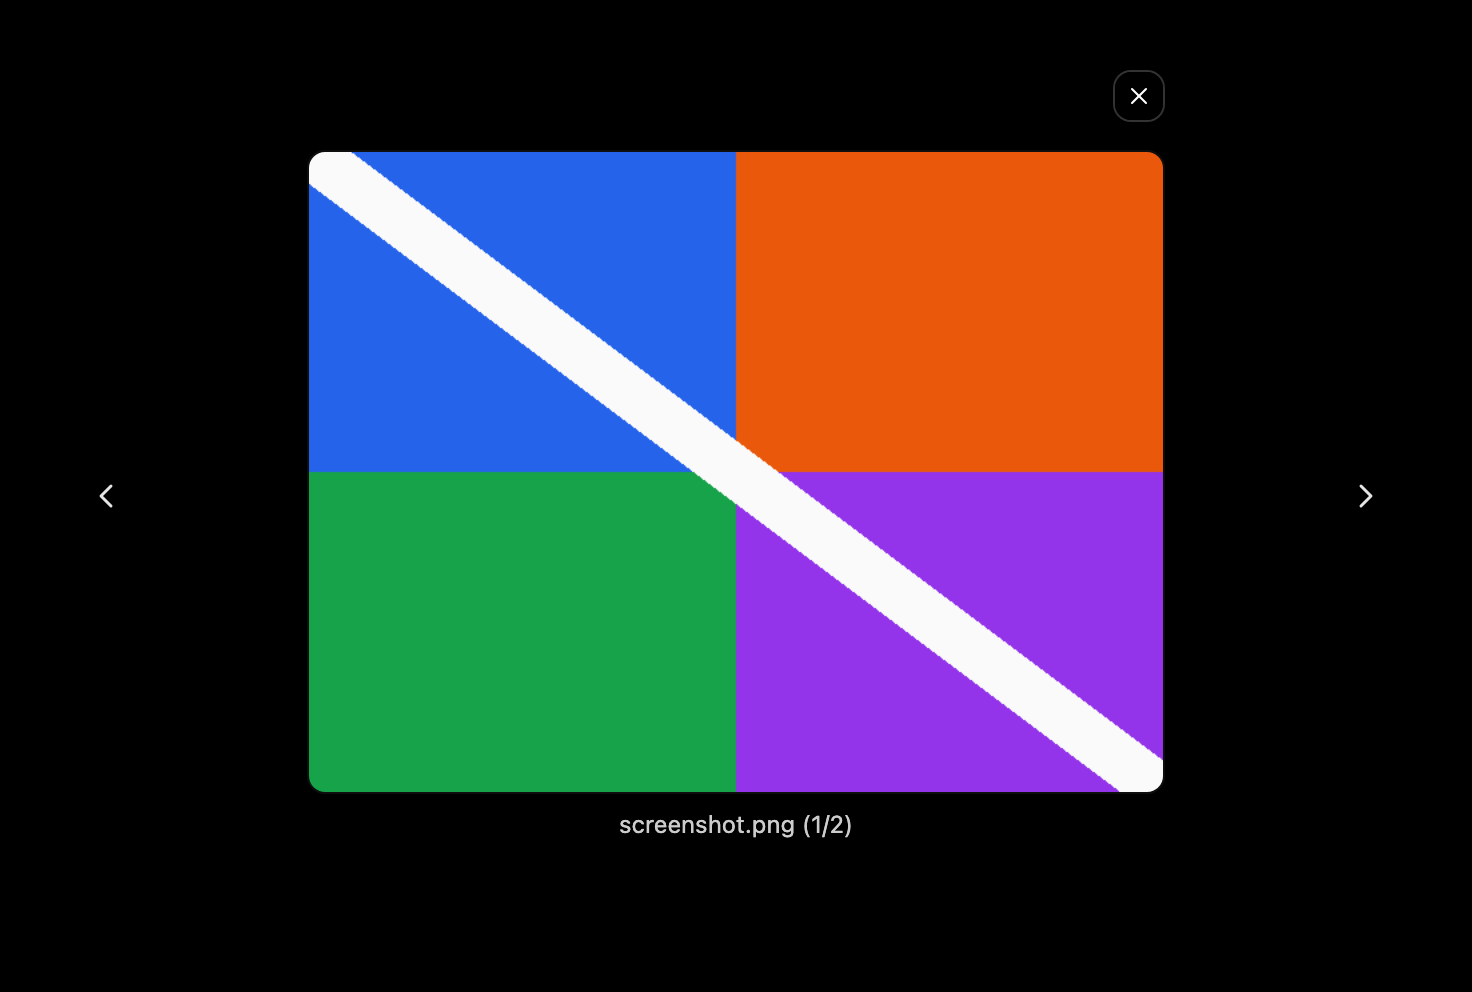
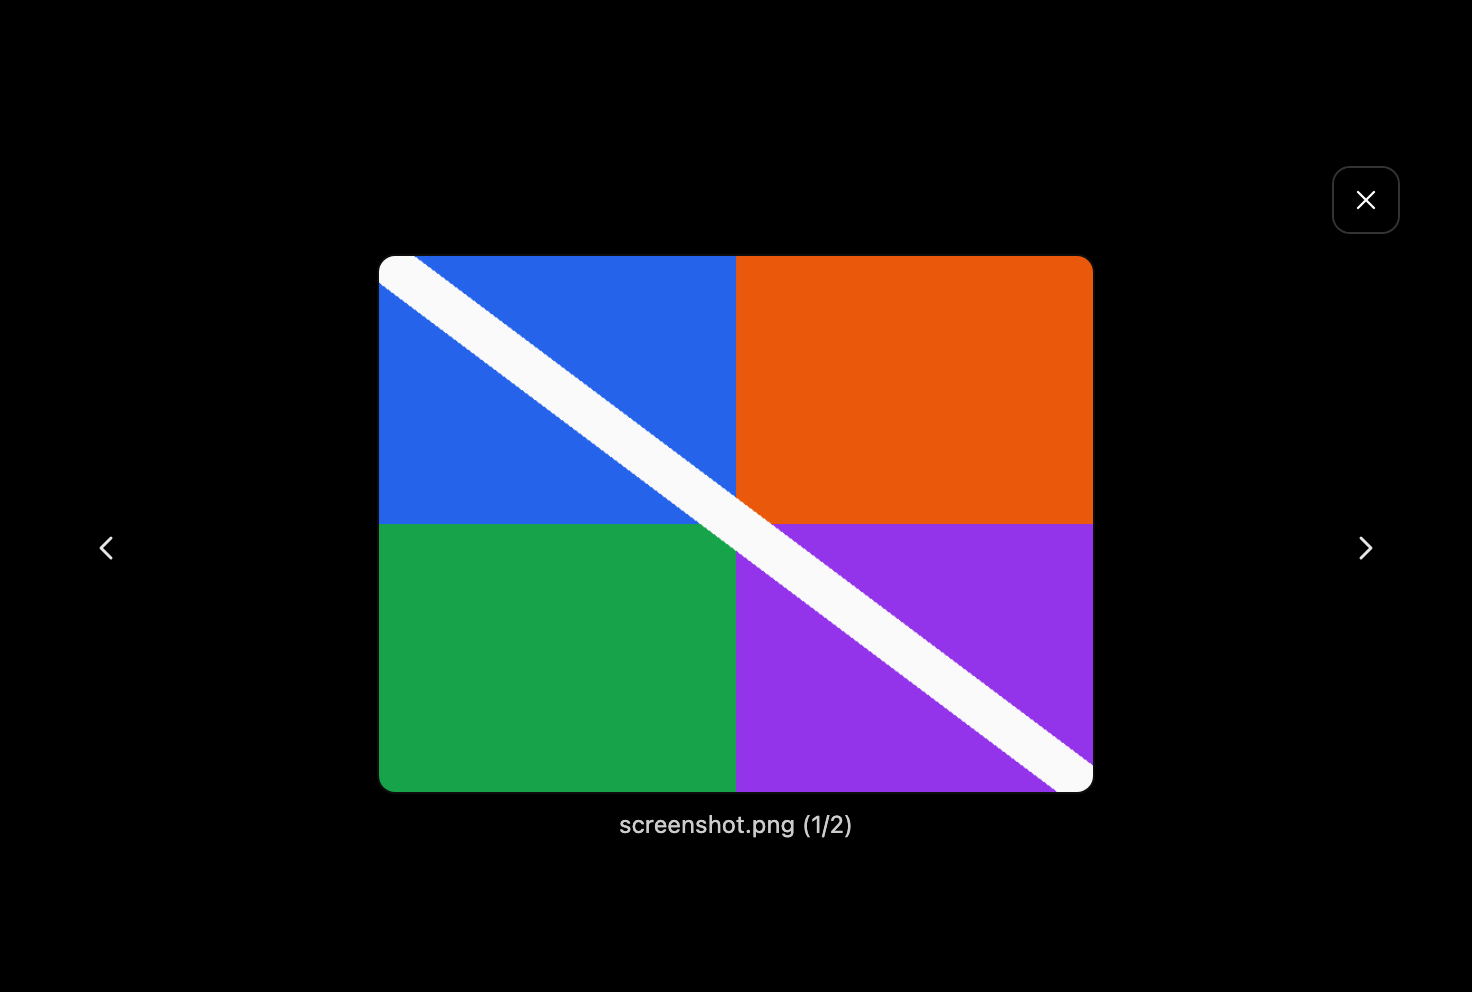
fix(thread): image preview follows T3 5258's popup rows, reference recaptured
The media popup leaves the 52pt titlebar clear: --media-height is
min((100vh - 52) * 0.86, 100vh - 52 - 160) and the image and caption
center in the popup's rows under pt-[min(52px + 1.5rem, 50dvh)] pb-6
(ExpandedImageDialog.tsx:183, dialog.tsx:163-168). The chevrons sit at
the popup's middle. preview.rest is recaptured from 5258's markup.

A switched thread opening at its end already holds (#41843); a test
now covers a taller footer arriving after the rows.

Tested: scripts/test --filter ComposerAttachmentsFidelityTests (preview
1.57% light, 0.38% dark) and --filter ThreadTimelineTests, all pass.

Changed region(s): [[0.1875, 0.1562, 0.8125, 0.8125], [0.9062, 0.1875, 0.9375, 0.2188], [0.75, 0.0938, 0.7812, 0.125]]

diff --git a/Packages/CandyKit/Sources/Features/Composer/ExpandedImagePreviewView.swift b/Packages/CandyKit/Sources/Features/Composer/ExpandedImagePreviewView.swift
@@ -234,10 +234,23 @@ public final class ExpandedImagePreviewView: DSView {
         frameView.layer?.borderColor = Themed.color(\.border, 0.7).cgColor(in: self)
     }
 
-    /// `--media-width: calc(92vw - 96px)` from `sm`, `--media-height: min(86vh, 100vh - 160px)`.
+    /// The 52pt macOS titlebar the media dialog leaves clear (windowControlsOverlay.ts:11).
+    private static let titlebar: CGFloat = 52
+
+    /// `--media-width: calc(92vw - 96px)` from `sm`, `--media-height: min((100vh - titlebar) * 0.86,
+    /// 100vh - titlebar - 160px)` (ExpandedImageDialog.tsx:183).
     private var mediaBox: CGSize {
-        let w = bounds.width, h = bounds.height
+        let w = bounds.width, h = bounds.height - Self.titlebar
         return CGSize(width: max(0, w * 0.92 - (w >= 640 ? 96 : 0)), height: max(0, min(h * 0.86, h - 160)))
+    }
+
+    /// The popup's rows: the viewport pads `pt-[min(titlebar + 1.5rem, 50dvh)] pb-6` (dialog.tsx:163-168) and
+    /// centers the `h-full max-h-[92vh]` popup in what is left.
+    private var popupRows: (top: CGFloat, height: CGFloat) {
+        let h = bounds.height
+        let top = min(Self.titlebar + 24, h / 2), row = max(0, h - top - 24)
+        let height = min(row, h * 0.92)
+        return ((top + (row - height) / 2).rounded(), height)
     }
 
     /// The image at zoom 1: its pixel size scaled down to fit the media box. The decode is capped at the box
@@ -261,9 +274,10 @@ public final class ExpandedImagePreviewView: DSView {
         // The data pane is `h-[min(var(--media-height),40rem)] w-[min(var(--media-width),42rem)]`.
         let size = showingDetails ? CGSize(width: min(box.width, 672), height: min(box.height, 640))
             : CGSize(width: min(fitted.width * zoom, box.width), height: min(fitted.height * zoom, box.height))
-        // The caption row is `items-center`: the 20pt micro button sets its height.
-        let block = size.height + 8 + captionHeight
-        return CGRect(x: (bounds.width - size.width) / 2, y: (bounds.height - block) / 2, width: size.width, height: size.height)
+        // The caption row is `items-center`: the 20pt micro button sets its height. The popup is
+        // `flex-col items-center justify-center`, so the pair centers in the popup's rows.
+        let block = size.height + 8 + captionHeight, rows = popupRows
+        return CGRect(x: (bounds.width - size.width) / 2, y: rows.top + (rows.height - block) / 2, width: size.width, height: size.height)
     }
 
     /// Zooms keeping the image point under `point` (or the frame's center) where it is (`changeZoom`).
@@ -284,7 +298,7 @@ public final class ExpandedImagePreviewView: DSView {
 
     public override func layout() {
         super.layout()
-        let w = bounds.width, h = bounds.height
+        let w = bounds.width
         let popupWidth = (w * 0.92).rounded()
         let inner = viewport(zoom: zoom), scaled = zoomedSize
         scroll.x = min(max(0, scaled.width - inner.width), max(0, scroll.x))
@@ -305,14 +319,11 @@ public final class ExpandedImagePreviewView: DSView {
             caption.frame = NSRect(x: inner.minX, y: row, width: inner.width, height: 16)
         }
         let popupX = ((w - popupWidth) / 2).rounded()
-        // The viewport pads `pt-[min(52px + 1.5rem, 50dvh)] pb-6` (dialog.tsx:163-168, the macOS titlebar is 52,
-        // windowControlsOverlay.ts:11) and centers the `h-full max-h-[92vh]` popup in that row. The × sits at its
-        // `end-0 top-0` (ExpandedImageDialog.tsx:198).
-        let top = min(76, h / 2), rowHeight = max(0, h - top - 24)
-        let popupTop = (top + (rowHeight - min(rowHeight, h * 0.92)) / 2).rounded()
-        close.frame = NSRect(x: popupX + popupWidth - 32, y: popupTop, width: 32, height: 32)
-        previous.frame = NSRect(x: popupX, y: (h / 2 - 16).rounded(), width: 32, height: 32)
-        next.frame = NSRect(x: popupX + popupWidth - 32, y: (h / 2 - 16).rounded(), width: 32, height: 32)
+        // The × sits at the popup's `end-0 top-0` (ExpandedImageDialog.tsx:198), the chevrons at its middle.
+        let rows = popupRows, middle = (rows.top + rows.height / 2 - 16).rounded()
+        close.frame = NSRect(x: popupX + popupWidth - 32, y: rows.top, width: 32, height: 32)
+        previous.frame = NSRect(x: popupX, y: middle, width: 32, height: 32)
+        next.frame = NSRect(x: popupX + popupWidth - 32, y: middle, width: 32, height: 32)
     }
 
     /// Decode only the pixels this zoom can show, in 128px steps while a wheel gesture grows.

diff --git a/Packages/CandyKit/Tests/FeaturesTests/ThreadTimelineTests.swift b/Packages/CandyKit/Tests/FeaturesTests/ThreadTimelineTests.swift
@@ -98,6 +98,21 @@ struct ThreadTimelineTests {
         #expect(!t.isPillVisible)
     }
 
+    /// T3 #41843 (MessagesTimeline.tsx, the restore owns the scroll until it lands): a thread opened while the
+    /// previous one was read mid-way lands at its end, and a taller footer that arrives after the rows (a working
+    /// parent's subagents) keeps it there instead of landing short.
+    @Test func aSwitchedThreadOpensAtItsEndWithoutLandingShort() throws {
+        let items = try Self.manyItems()
+        let t = Self.timeline(Array(items.prefix(40)))
+        t.scroll(toFraction: 0.2)
+        #expect(!t.followsEnd)
+        t.setItems(Array(items.suffix(60)), change: .thread)
+        #expect(abs(Self.viewport(t).maxY - t.documentHeight) < 1)
+        t.setFooter(NSView(), height: 300)
+        #expect(t.followsEnd)
+        #expect(abs(Self.viewport(t).maxY - t.documentHeight) < 1)
+    }
+
     /// A terminal drawer opening with a thread switch shrinks the viewport; the newest row stays in view.
     @Test func staysAtTheEndWhenTheViewportShrinks() throws {
         let items = try Self.manyItems()

diff --git a/scripts/gen-composer-attachments-spec.py b/scripts/gen-composer-attachments-spec.py
@@ -58,19 +58,22 @@ def tile(name, progress=None, failed=False):
             f'<span class="absolute right-1 top-1 flex">{btn("media-close", "icon-xs", lucide("x"))}</span></div>')
 shelf = f'<div class="flex max-w-full gap-2 flex-wrap">{tile("a.png")}{tile("b.png", progress="42%")}{tile("c.png", failed=True)}</div>'
 
-# MARK: preview, for a 720x480 window: --media-width 92vw - 96px, --media-height min(86vh, 100vh - 160px)
+# MARK: preview, for a 720x480 window at T3 5258 (ExpandedImageDialog.tsx:178-300, dialog.tsx:96-175).
+# The macOS titlebar is 52px (windowControlsOverlay.ts:11): the viewport pads pt-[min(52px+1.5rem,50dvh)] pb-6,
+# --media-width is 92vw - 96px and --media-height min((100vh - 52px) * 0.86, 100vh - 52px - 160px).
 W, H = 720, 480
-media_w, media_h = W * 0.92 - 96, min(H * 0.86, H - 160)
+TB = 52
+media_w, media_h = W * 0.92 - 96, min((H - TB) * 0.86, H - TB - 160)
 fit = min(1, media_w / 640, media_h / 480)
 iw, ih = 640 * fit, 480 * fit
-nav = lambda side, icon: btn("media-navigation", "icon", lucide(icon, "size-5"), f"{side}-0 sm:top-1/2 sm:bottom-auto sm:-translate-y-1/2")
+nav = lambda side, icon: btn("media-navigation", "icon", lucide(icon, "size-5"), f"{side}-0 top-auto bottom-0 translate-y-0 sm:top-1/2 sm:bottom-auto sm:-translate-y-1/2")
 preview = (f'<div style="position:relative;width:{W}px;height:{H}px;overflow:hidden">'
            '<div class="absolute inset-0 bg-black/75 backdrop-blur-none"></div>'
-           '<div class="absolute inset-0 grid grid-rows-1 place-items-center px-4 py-6">'
-           f'<div class="relative flex min-h-0 min-w-0 flex-col items-center overflow-visible" style="width:{W * 0.92}px;--media-width:{media_w}px;--media-height:{media_h}px">'
+           f'<div class="absolute inset-0 grid grid-rows-1 place-items-center justify-items-center px-4 pb-6" style="padding-top:{min(TB + 24, H / 2)}px">'
+           f'<div class="relative flex min-h-0 min-w-0 flex-col h-full items-center justify-center overflow-visible" style="width:{W * 0.92}px;max-height:{H * 0.92}px;--media-width:{media_w}px;--media-height:{media_h}px">'
+           + btn("media-close", "icon", lucide("x"), "absolute end-0 top-0 z-20")
            + nav("left", "chevron-left") +
-           '<div class="relative isolate z-10 max-w-[var(--media-width)]">'
-           + btn("media-close", "icon-xs", lucide("x"), "absolute right-0 -top-10 z-20") +
+           '<div class="relative isolate z-10 flex max-h-full max-w-[var(--media-width)] flex-col items-center">'
            f'<div class="min-w-0"><div class="max-w-[var(--media-width)] overflow-auto overscroll-contain rounded-lg bg-background shadow-2xl ring-1 ring-border/70 outline-none" style="width:{iw}px;height:{ih}px">'
            f'<img src="{IMG}" alt="" class="block max-w-none select-none" style="width:{iw}px;height:{ih}px"></div></div>'
            '<div class="mt-2 flex max-w-[var(--media-width)] items-center justify-center gap-1.5 text-xs text-white/80"><span class="truncate">screenshot.png (1/2)</span></div>'
@@ -131,7 +134,7 @@ cases = [
     {"name": "stash-empty", "html": empty, "native": {"case": "stash-empty"}, "wrapperStyle": "display:block;width:692px"},
     {"name": "stash-badge", "html": badge, "native": {"case": "stash-badge"}, "wrapperStyle": "display:inline-block"},
 ]
-spec = {"sourceVersion": "v0.1.4-nightly.20261028.3824", "component": "composer-attachments", "source": "apps/web/src/components/chat/ChatComposer.tsx, ExpandedImageDialog.tsx, ComposerStashMenu.tsx, ComposerStashBadge.tsx",
+spec = {"sourceVersion": "v0.1.13-nightly.20261125.5258", "component": "composer-attachments", "source": "apps/web/src/components/chat/ChatComposer.tsx, ExpandedImageDialog.tsx, ComposerStashMenu.tsx, ComposerStashBadge.tsx",
         "states": ["rest"], "themes": ["light", "dark"], "cases": cases}
 with open(os.path.join(ROOT, "design/component-reference/composer-attachments.json"), "w") as f:
     json.dump(spec, f, indent=1, ensure_ascii=False)

diff --git a/docs/research/nightly-diff-5258-ui-thread.md b/docs/research/nightly-diff-5258-ui-thread.md
@@ -419,7 +419,7 @@ Status values: `port` names the note above. `n/a` gives the reason in a few word
 | ccdafe1f61 | #42205 | fix(web): held or modified Backspace no longer leaves a Command Palette submenu | palette | port (4.4) |
 | 7c42bb1c5c | #38317 | fix(web): Open subagent in Background work looks like a button | thread | port (1.18) |
 | d7ae1e1791 | #33002 | fix(web): report server rollback after an app update | sidebar | port (3.6) |
-| 6f6b978667 | #41963 | fix(web): image preview closes with an × again instead of a Back button | thread | ported 255b7394 (the 32pt media-close at the popup's top end; reference preview.rest still from 4928, recapture from 5258) |
+| 6f6b978667 | #41963 | fix(web): image preview closes with an × again instead of a Back button | thread | ported 255b7394, reference recaptured from 5258 in the next commit with the popup's titlebar inset and centering |
 | 0a7864c887 | #42084 | fix(web): a run finishing in a background window stays unread | thread | ported 98004311 |
 | 74d73ac23f | #42048 | fix(web): a thread link to an unconnected environment shows why instead of a blank pane | thread | port (1.1) |
 | 28d8a63d7f | #42011 | fix(web): sidebar search times no longer wrap in translated languages | sidebar | port (3.8) |
@@ -437,7 +437,7 @@ Status values: `port` names the note above. `n/a` gives the reason in a few word
 | 8dc01892ad | #41886 | fix(server): answering a secret request with a reference needs provider management | thread | n/a (CW has no reference sources, so the card is always typed) |
 | d36fb7d263 | #41877 | fix(web): Open in file manager waits for a file preview to load, then shows the file in its folder | thread | port (1.18) |
 | 14ea095b0a | #41663 | feat(web): add an HTML preview width setting separate from chat width | thread | left: needs the `htmlPreviewWidth` setting row (settings agent) before the lane can widen; default `chat` matches CW now. Medium |
-| 4508c70681 | #41843 | fix(web): opening a thread lands at its end instead of jumping there | thread | left unchecked: it fixes the web list's scroll anchoring during a thread swap; check CW's restore lands at the end without a jump. Small |
+| 4508c70681 | #41843 | fix(web): opening a thread lands at its end instead of jumping there | thread | already: a `.thread` change sets `followsEnd` before the anchor is taken, so the restore and every later footer change land at the end (test `aSwitchedThreadOpensAtItsEndWithoutLandingShort`) |
 | 4162207ddd | #29771 | fix(web): file menu opens remote files over SSH instead of on the server | thread | n/a (web icons, wire A18) |
 | 8ef195587d | #33030 | fix(web): tell update-all users where to update desktop servers it can't reach | sidebar | port (3.6) |
 | d9c7e6f7fc | #31098 | fix(web): dropped text is parsed like pasted text in the composer | composer | port (2.4) |
